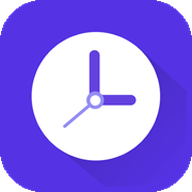
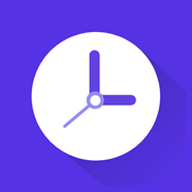
Add files via upload

diff --git a/index.html b/index.html
@@ -5,7 +5,7 @@
     <meta name="viewport" content="width=device-width, initial-scale=1.0">
     <title>Mijn Rooster</title>
     <link rel="icon" href="icon.png" type="image/png">
-    <link rel="apple-touch-icon" href="icon.png">
+    <link rel="apple-touch-icon" href="apple-touch-icon.png">
     <link rel="manifest" href="manifest.json">
     <meta name="theme-color" content="#7C3AED">
     <meta name="apple-mobile-web-app-title" content="Mijn Rooster">
@@ -447,7 +447,6 @@
             text-align: right;
         }
 
-        #resultsCard { touch-action: pan-y; }
     </style>
 </head>
 <body>

diff --git a/sw.js b/sw.js
@@ -1,9 +1,10 @@
-const CACHE_NAME = 'mijn-rooster-v1';
+const CACHE_NAME = 'mijn-rooster-v2';
 const APP_SHELL = [
     './',
     './index.html',
     './manifest.json',
     './icon.png',
+    './apple-touch-icon.png',
     './icon-192.png',
     './icon-512.png'
 ];